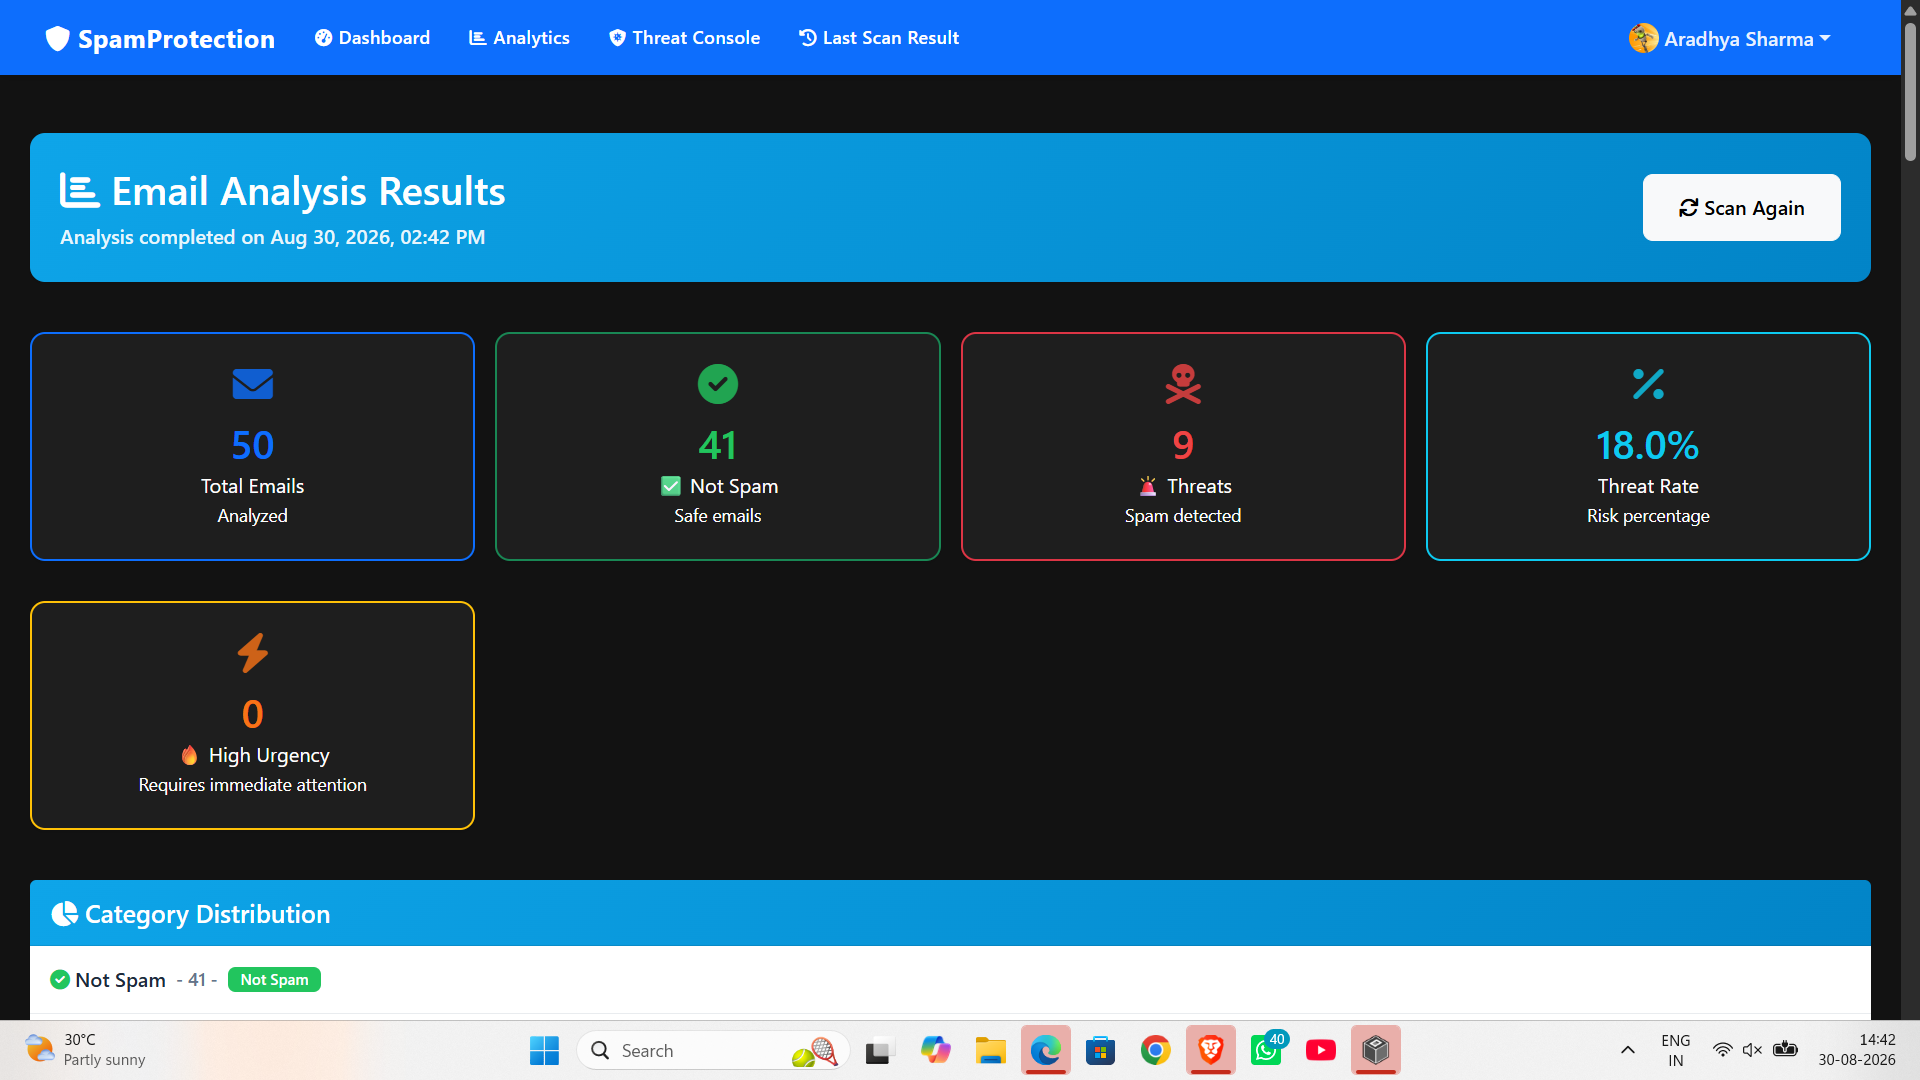
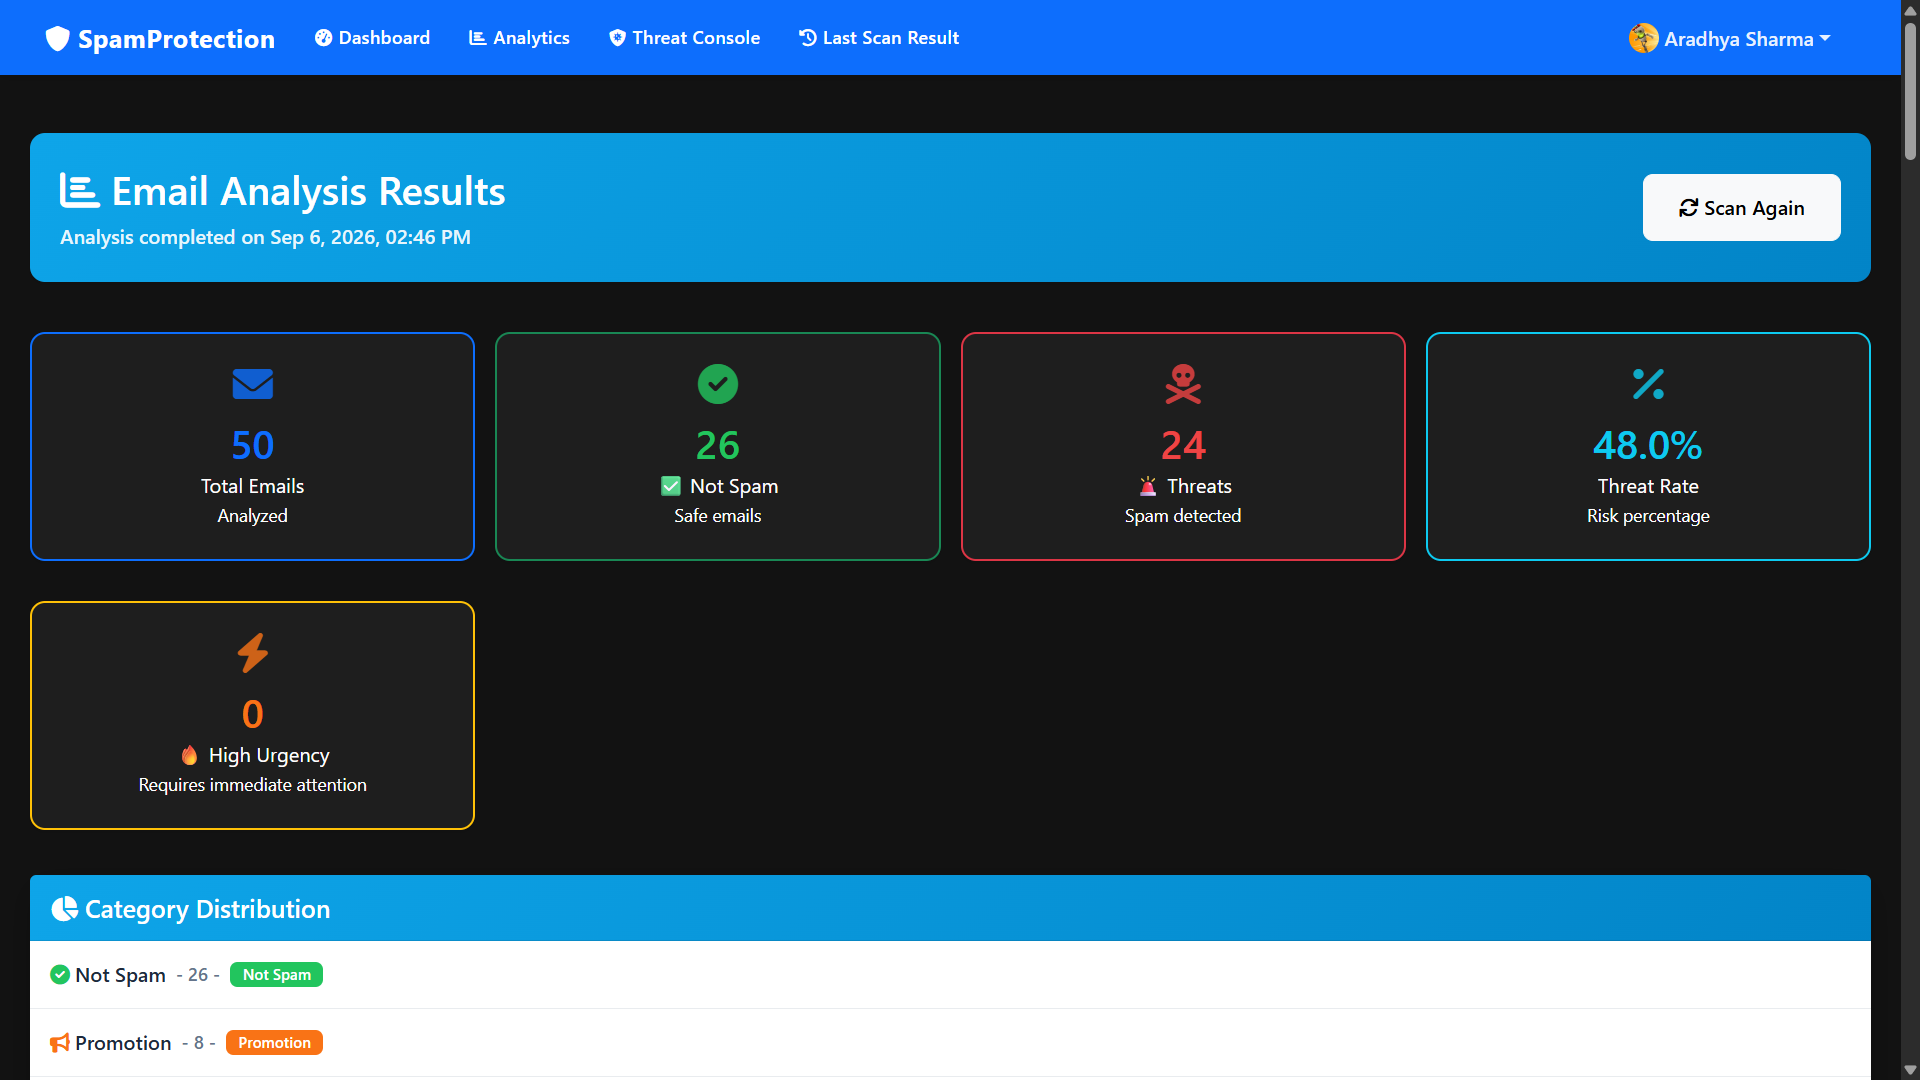
docs: full README coverage plus refreshed results screenshot
README now documents every route, API shapes, all .env vars, scoring rules, structure, and stack. Results screenshot replaced with current UI.

diff --git a/README.md b/README.md
@@ -7,10 +7,10 @@
 A local-first web app that reads your Gmail (read-only), classifies each
 message into one of six categories with a fine-tuned RoBERTa + sklearn
 ensemble, and explains every verdict with a risk breakdown, urgency score,
-and sender history. Built as a 7th-semester major project by
-**Abhishek Kumar T**. No hosting, no data leaves your machine.
+sender reputation, and an AI-written summary. Built as a 7th-semester major
+project by **Abhishek Kumar T**. No hosting, no data leaves your machine.
 
-## What It Looks Like
+## Screenshots
 
 | Landing | Dashboard |
 |---|---|
@@ -20,32 +20,97 @@ and sender history. Built as a 7th-semester major project by
 |---|---|
 | ![Results table](docs/screenshots/results.png) | ![Email view with analysis](docs/screenshots/email-view.png) |
 
+## Features
+
+- **6-class classification** — legitimate, spam, promotion, phishing, malware,
+  newsletter. Only spam, phishing, and malware count as threats.
+- **Risk scoring (0–100)** with a visible breakdown: base model score plus
+  urgency, learned-keyword, and sender-reputation boosts.
+- **Urgency detection** — time-pressure language ("act now", "within 24 hours")
+  scored separately from malice.
+- **Sender reputation** — per-sender history with time decay; repeat offenders
+  raise the score of their future mail.
+- **Adaptive keywords** — the app learns dangerous terms from high-confidence
+  phishing/malware mail and boosts later mail containing them (capped, no
+  runaway feedback).
+- **Gmail scan** — latest 50 mails, batched fetching with retry and backoff.
+- **Sync + background scans** — small scans render directly; large ones run in
+  a cancellable background task with a progress bar.
+- **Single-text and bulk-paste analysis** without touching Gmail.
+- **Analytics + threat console** — category mix, urgency top-5, risk
+  distribution, 7-day trend, high-risk timeline.
+- **Per-mail view** — sanitized body (XSS-stripped), 30–40 word explanation,
+  full risk breakdown.
+
 ## How One Scan Works
 
 ```text
 Login with Google → Dashboard → Scan inbox
-  → Gmail API fetches latest 50 (batched, with retry)
+  → Gmail API fetches latest 50 (batches of 20, 429-aware retry)
   → 0.90 × RoBERTa + 0.10 × Ensemble votes per message
   → risk + urgency + sender reputation layered on top
   → Results table → open any mail for the full breakdown
 ```
 
-Six categories: `legitimate, spam, promotion, phishing, malware, newsletter`.
-Only spam, phishing, and malware count as threats — promotions and
-newsletters never do, even when they read like marketing.
+## Pages & Routes
 
-## Run It Locally
+| Route | What it does |
+|---|---|
+| `/` | Landing page (redirects to dashboard when logged in) |
+| `/login` | Google sign-in page |
+| `/auth/google` | Starts the OAuth flow |
+| `/callback/google` | OAuth callback, stores session, saves encrypted refresh token |
+| `/logout` | Clears session, time-aware goodbye message |
+| `/dashboard` | Greeting, clock, scan controls, last-scan banner, recent mail |
+| `/analyze_emails` | Synchronous Gmail scan (rate-limited 10/min) |
+| `/api/start_analysis` | Starts a background scan, returns a task id (5/min) |
+| `/api/analysis_status/<task_id>` | Progress polling for the frontend bar |
+| `/api/cancel_analysis/<task_id>` | Cancels a running scan |
+| `/results` | Filterable, sortable, paginated table (50/page) |
+| `/last-scan` | The most recent 50 mails, same table |
+| `/email/<email_id>` | One mail: sanitized body + analysis + AI summary |
+| `/analytics` | Urgency, risk distribution, 7-day trend |
+| `/admin/threat-console` | High-risk timeline, category/urgency streams |
+| `/api/analyze_text` | Single-text classification (POST JSON, 10/min) |
+| `/bulk_analyze` | Paste up to 100 texts, batch verdicts (5/min) |
+| `/api/last_scan` | JSON summary of the latest scan |
+| `/api/status` | Model status, categories, endpoint map |
+| `/health` | Liveness probe with model-loaded flag |
+| `/set-timezone` | Stores the browser timezone/locale in session |
+
+## API Reference
+
+**`POST /api/analyze_text`** (login + JSON required)
+
+```json
+{ "text": "You have won a prize, claim within 24 hours" }
+```
+
+Returns `category`, `category_info`, `is_spam`, `risk_score`, `risk_level`,
+`confidence`, per-class `probabilities`, `spam_probability`, `analysis_time`.
+Limits: 5000 chars, 10 req/min. Missing models → **503**, never a fake label.
+Empty text → 400, wrong content type → 415.
+
+**`POST /bulk_analyze`** — `{ "texts": ["...", "..."] }`, max 100 items,
+5 req/min. Returns per-text verdicts plus a summary
+(`total_analyzed`, `spam_detected`, `spam_percentage`, `threat_count`).
+
+**`POST /api/start_analysis`** → `{ "task_id": ... }`, then poll
+`GET /api/analysis_status/<task_id>` (`progress`, `status`, `complete`,
+`error`). Cancel with `POST /api/cancel_analysis/<task_id>`. Tasks are
+per-user isolated and expire.
+
+## Quickstart
 
 ```powershell
 python -m venv venv; venv\Scripts\Activate.ps1
 pip install -r requirements.txt
-Copy-Item .env.example .env   # fill in your own keys (Section: Gmail keys)
+Copy-Item .env.example .env   # fill in your own keys (next section)
 flask db upgrade
 python app.py                 # http://localhost:5000
 ```
 
-Single worker, SQLite file `emails.db`, torch CPU. A 50-mail scan takes
-roughly a minute on a laptop.
+A 50-mail scan takes roughly a minute on a laptop (torch CPU).
 
 ## Gmail Keys (Everyone Brings Their Own)
 
@@ -59,6 +124,21 @@ The app requests **readonly** access. It cannot send, delete, or relabel
 anything. Revoke anytime from Google Account → Security. Never commit
 `.env`, `credentials.json`, or `emails.db` — see `SECURITY.md`.
 
+## Configuration (`.env`)
+
+| Variable | Purpose |
+|---|---|
+| `FLASK_SECRET_KEY` | Session signing. Required — no production fallback. |
+| `GOOGLE_CLIENT_ID` / `GOOGLE_CLIENT_SECRET` | Your OAuth client from Google Cloud. |
+| `FLASK_ENV` / `DEBUG` | `development` locally. |
+| `ADMIN_EMAILS` | Reserved for future admin gating. |
+| `KAGGLE_USERNAME` / `KAGGLE_KEY` | Only if you re-download public training sources. |
+| `SERVER_NAME` / `PREFERRED_URL_SCHEME` | Local OAuth redirect building. |
+| `NVIDIA_NIM_BASE_URL` / `NVIDIA_NIM_API_KEY` / `NVIDIA_NIM_MODEL` | Optional per-mail AI summaries. Absent → skipped silently (15 s timeout). |
+
+Database is SQLite (`emails.db`, auto-created). Sessions are server-side
+filesystem cache — OAuth tokens never sit in browser cookies.
+
 ## Models
 
 Running needs four files from **Releases → `v1.0-models`**, placed in `models/`:
@@ -66,15 +146,12 @@ Running needs four files from **Releases → `v1.0-models`**, placed in `models/
 | File | Size | Role |
 |---|---|---|
 | `best_roberta_model.pth` | ~476 MB | Fine-tuned `roberta-base`, 6 labels, max_len 256 |
-| `ensemble_model.joblib` | ~192 MB | 5-head soft-voting sklearn ensemble |
+| `ensemble_model.joblib` | ~192 MB | 5-head soft-voting ensemble (NB, LogReg, RF, GB, MLP) |
 | `vectorizer.joblib` | ~1.3 MB | 20k TF-IDF (1–2gram) vocabulary |
 | `encoder.joblib` | tiny | Label map |
 
-The repo and zip ship code only. If the files are missing,
-`/api/analyze_text` answers **503** instead of guessing.
-
-Retrain from scratch: `python models/roberta_train.py` →
-`python models/ensemble_train.py` →
+The repo and zip ship code only. Retrain from scratch:
+`python models/roberta_train.py` → `python models/ensemble_train.py` →
 `python models/evaluate.py --model both` (scores on the frozen
 `test_set.csv`, which is eval-only and never trained on).
 
@@ -85,19 +162,44 @@ spam/phishing collections plus author-written synthetic mails, labelled
 into 6 classes (spam 6457, legitimate 5532, promotion 5208, phishing 4837,
 newsletter 4502, malware 3492). Columns: `text,label,category`.
 
-## Pages
+## Scoring Rules
 
-Dashboard, Results (filter + sort + 50/page), Email view (sanitized body +
-risk breakdown + AI summary), Analytics, Threat console, Bulk analyze
-(paste up to 100 texts), plus `/api/analyze_text`, `/api/status`,
-`/health`. See `CONTRIBUTING.md` for the branch/PR rules.
+Base risk by category: legitimate 5, newsletter 10, promotion 30, spam 50,
+phishing 80, malware 85 — scaled by model confidence, halved below 25%
+confidence. Sender with a bad history adds +10/+20, matched learned
+keywords add up to +20. Level: High ≥ 61, Medium ≥ 41, else Low.
+Urgency is separate: immediate-pressure words +40, 24–48h deadlines +30,
+hour mentions +25, day deadlines +20, week +10, important-sender +20.
+
+## Project Structure
+
+```text
+app.py                  # routes, analysis pipeline, background tasks
+config.py               # env-driven Flask config
+models/                 # predictor, RoBERTa loader, training + eval scripts, CSVs
+utils/                  # OAuth, Gmail client, urgency/keyword/risk helpers, AI explainer
+templates/              # 10 Jinja pages
+static/                 # CSS + JS
+migrations/             # single-head Alembic chain
+requirements.txt        # web runtime deps
+```
+
+## Tech Stack
+
+Python 3.11, Flask 2.3, Flask-Login, Flask-Migrate, SQLAlchemy, Authlib,
+Gmail API, torch (CPU), transformers, scikit-learn, bleach, Babel,
+Jinja2, Bootstrap 5, Chart.js. Training-only extras (datasets, plotting,
+kaggle) stay out of the web path.
 
 ## Honest Limitations
 
 CPU inference runs ~200–500 ms per mail. Trend windows are 7 days.
-Urgency heuristics over-fire on `noreply@` senders. Multi-worker deploy
-is unsupported (rate limiter and task store are in-process).
+Urgency heuristics over-fire on `noreply@` senders. The in-process rate
+limiter and task store mean single-worker runs only. No auto-delete or
+label writes — triage advice, not enforcement.
 
-## License
+## Contributing, Security, License
 
-MIT — see `LICENSE`. Copyright (c) 2026 Abhishek Kumar T.
+Branch/PR rules → `CONTRIBUTING.md`. Secret handling and vulnerability
+reports → `SECURITY.md`. MIT — see `LICENSE`.
+Copyright (c) 2026 Abhishek Kumar T.
